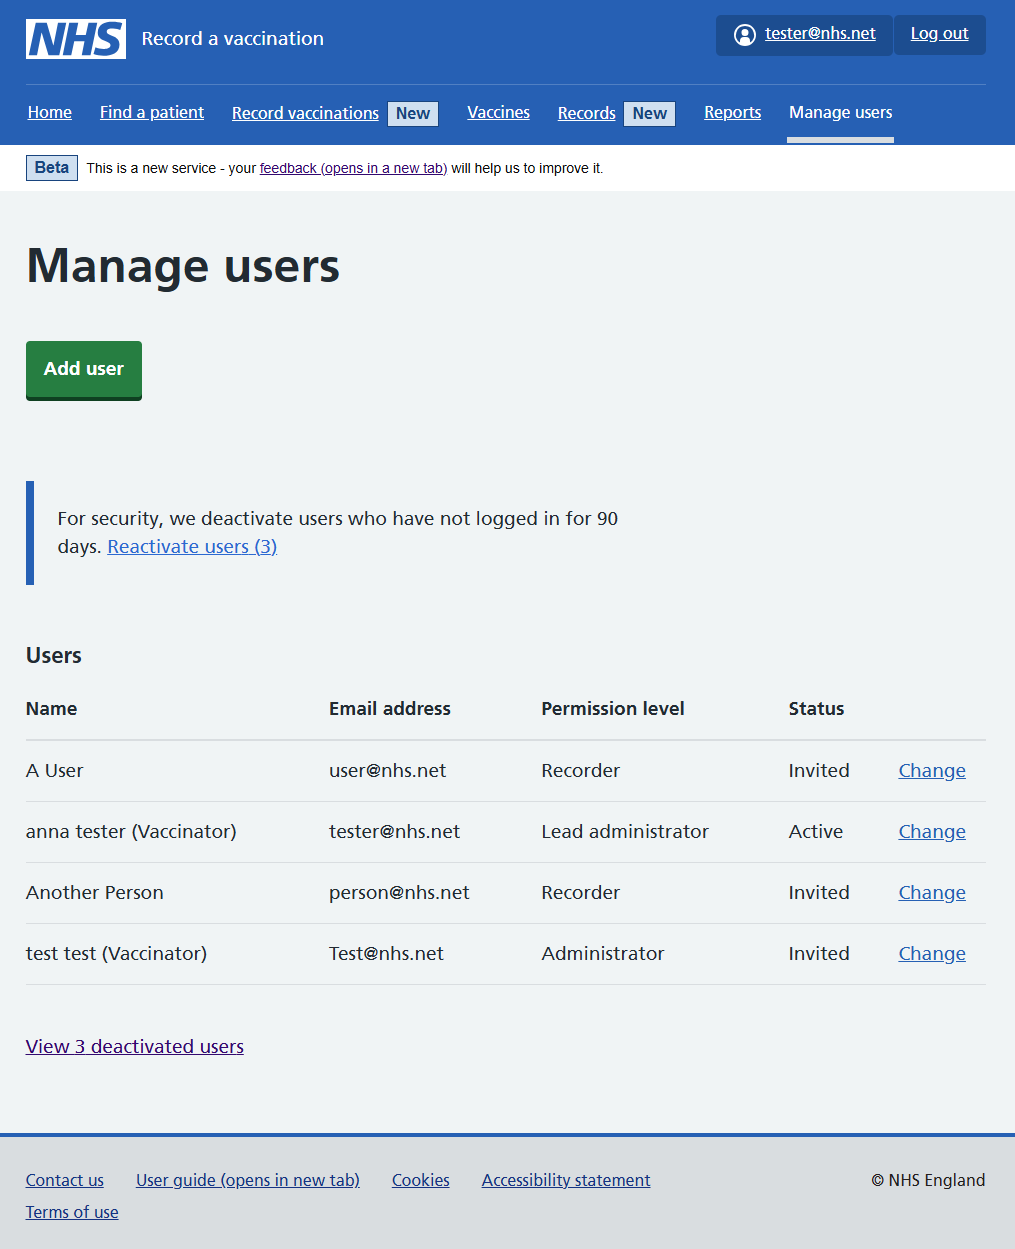
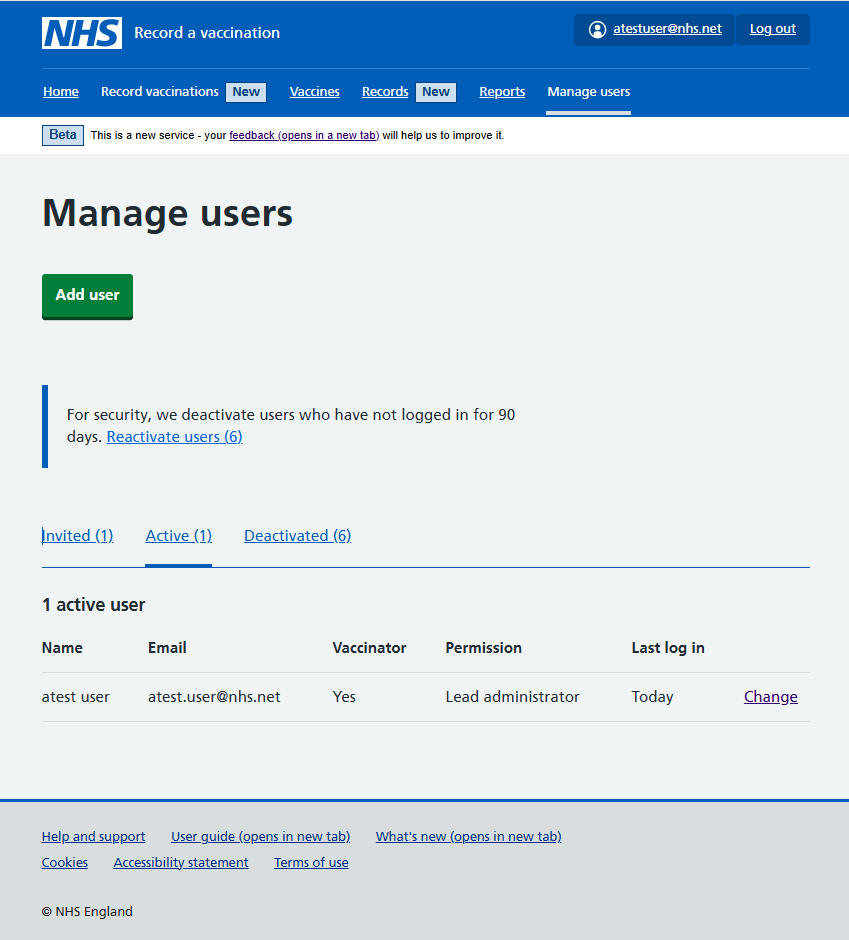
Manage users updates (#195)
Updates to What's new and Manage users guidance about Manage users home
page now showing invited, active and deactivated users on separate tabs.

---------

diff --git a/app/managing-users.md b/app/managing-users.md
@@ -9,7 +9,17 @@ order: 7
 
 {% include 'guide-contents.njk' %}
 
-Only lead administrators can access this section, where they can add and deactivate users, and change a user's permissions.
+Only lead administrators have access to this section, where they can:
+
+* add users
+* change a user's permissions
+* deactivate and reactivate users
+
+![Manage users home page](/images/manage-users-home.png)
+
+In the Manage users section, you can see invited, active and deactivated users.  
+
+Invited users are those who have not yet logged in. Deactivated users are those who have either not logged in to RAVS for 90 days, or have been deactivated by a lead administrator.  
 
 ## Adding new users
 
@@ -38,14 +48,14 @@ You can have more than 1 user for each permission level.
 
 ![Screen shows user adding a new user's details and selecting their permission level](/images/manage-users-add.png)
 
-## Creating a RAVS account
+### Creating a RAVS account
 
 Once you have added a new user, we'll automatically create a RAVS account and send them a welcome email to access the service.
 
-Okta allows new users to sign in and use RAVS.
+RAVS uses Okta to sign users in securely.
 
-* If users already have an Okta account for other NHS applications, their RAVS account will be added to their existing Okta account.
-* If users are new to Okta, they'll also receive an Okta email with instructions to set up their account. They'll need to do this first to access RAVS.
+* If users already have an Okta account, they can log in to RAVS as soon as they've received the welcome email, using their Okta username and password.
+* If users are new to Okta, they'll also receive an email from Okta with instructions to set up their Okta account. They'll need to do this first to access RAVS.
 
 ## Adding a user to multiple organisations
 
@@ -61,35 +71,26 @@ Each time they log in, they will see a screen listing all the organisations they
 
 To switch organisations, they need to log out, log back in and select a new organisation.
 
-### If a user was added to multiple organisations before 16 December 2024
-
-Before 16 December 2024, to access RAVS at multiple organisations, a user needed a separate email address linked to each organisation.
-
-If a user has more than 1 email address to access RAVS, they can continue to use separate emails and Okta accounts for each organisation.
-
-Or, if they want to only use their main email address to access RAVS at each organisation, they can do the following:
-
-* add themselves (or ask a lead administrator to add them) to an organisation using their main email address
-* then deactivate (or ask a lead administrator to deactivate) the extra email account they used previously for that organisation
-
-Any records previously created with an extra email account will remain unchanged.
-
 ## Changing a user's permissions or vaccinator status
 
-To change a user's permission levels or vaccinator status, select 'Change' next to their name on the 'Manage users' screen.
+To change a user's permission levels or vaccinator status, select 'Change' next to their name.
 
 A change to permission levels becomes active when the user next logs in.
 
-![Screen shows user the manage users screen](/images/manage-users-home.png)
-
 ## Deactivating users
 
-If a user no longer works at your organisation, you must deactivate their account.
+If a user no longer needs to access RAVS, you must deactivate their account.
 
-Select 'Change' next to a name on the 'Manage users' screen. On the next screen you'll have the option to deactivate the account.
+Select 'Change' next to their name, and on the next screen you'll have the option to deactivate the account.
 
 Deactivated users will no longer be able to sign in to RAVS at your organisation.
 
-If you deactivate a user who works at several organisations, they will only be deactivated from your organisation. Their access to RAVS at other organisations will not change.
+If you deactivate a user who works at several organisations, they will only be deactivated from your organisation.
 
-You can reactivate users at any time from the 'Manage users' screen.
+## Reactivating users
+
+From the Manage users home page, you have 2 options for reactivating users.  
+ 
+To reactivate all users who have not logged in for 90 days, select the 'Reactivate users' link that appears before the list of users.  
+ 
+To reactivate an individual user, select the 'Reactivate' link next to the user you want to reactivate. 

diff --git a/app/whats-new.md b/app/whats-new.md
@@ -6,6 +6,18 @@ analytics_key: whats-new
 eleventyExcludeFromCollections: true
 ---
 
+## 12 March 2026
+ 
+### Updates to the Manage users section 
+
+In the Manage users section, invited, active and deactivated users are now listed separately.
+
+Invited users are those who have not yet logged in to RAVS. Deactivated users are those who have either not logged in to RAVS for 90 days, or have been deactivated by a lead administrator.  
+
+If you do not have any invited or deactivated users, you will just see active users.
+
+<hr class="nhsuk-section-break nhsuk-section-break--m nhsuk-section-break--visible">
+
 ## 10 February 2026
  
 ### New contact details for support
